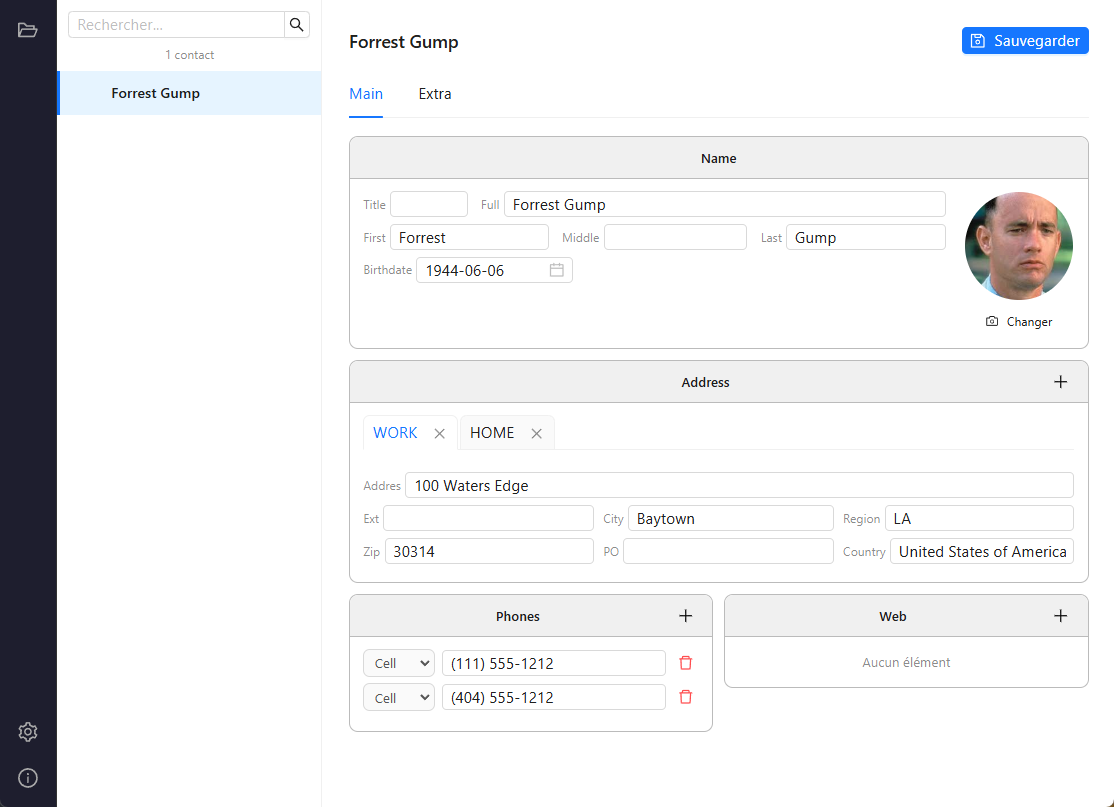
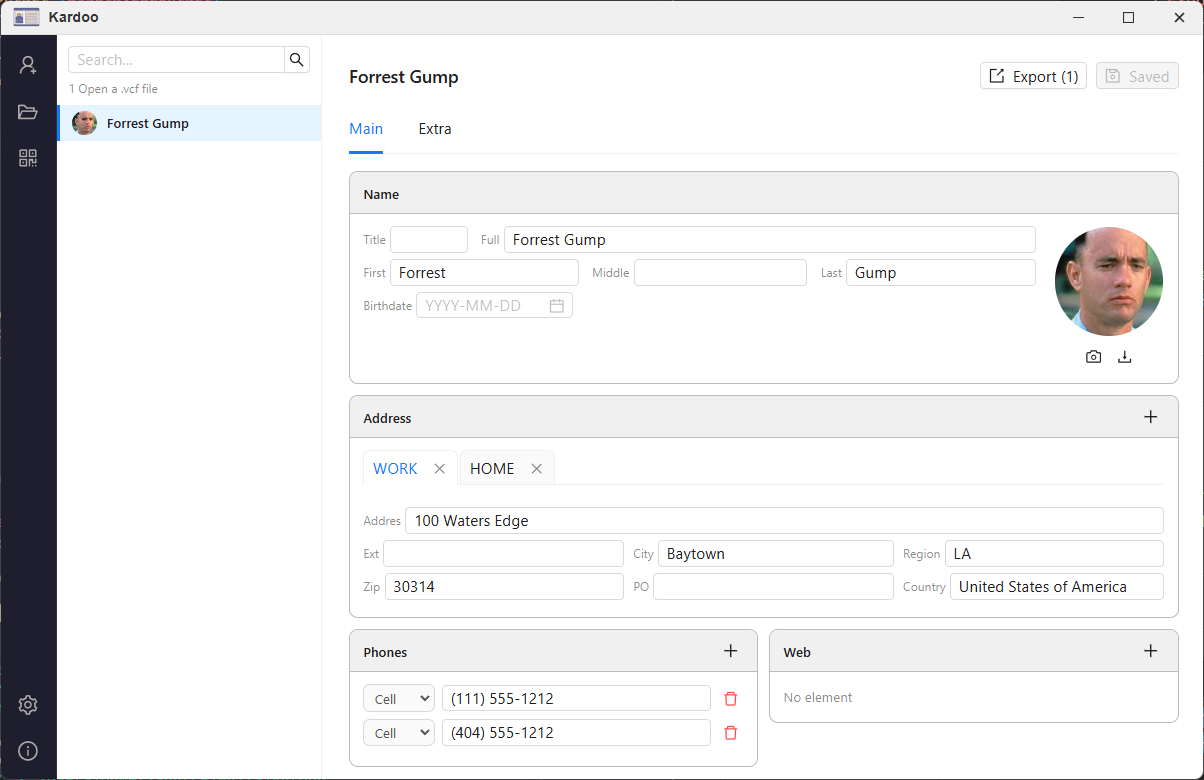
Add internationalization support for export functionality: implement translations for export labels in English and French, and update TitleBar component for improved UI.

diff --git a/frontend/src/App.jsx b/frontend/src/App.jsx
@@ -161,8 +161,11 @@ export default function App() {
                 onExport={handleExport}
                 exportLabel={
                   checkedIds.length > 0
-                    ? `Exporter (${checkedIds.length})`
-                    : `Exporter (${contacts.filter((c) => c.kind !== "group").length})`
+                    ? t("export.export_selected", { count: checkedIds.length })
+                    : t("export.export_all", {
+                        count: contacts.filter((c) => c.kind !== "group")
+                          .length,
+                      })
                 }
               />
             )

diff --git a/frontend/src/components/TitleBar.jsx b/frontend/src/components/TitleBar.jsx
@@ -40,8 +40,8 @@ export default function TitleBar() {
           paddingLeft: 12,
         }}
       >
-        <img src={logo} style={{ width: 18, height: 18 }} />
-        <span style={{ fontSize: 13, fontWeight: 500, color: "#333" }}>
+        <img src={logo} style={{ width: 24, height: 24 }} />
+        <span style={{ fontSize: 13, fontWeight: 700, color: "#333" }}>
           Kardoo
         </span>
       </div>
